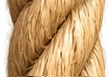
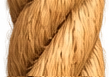
feat(nav): add realistic rope wraps on branch and restore unclipped monkey grip

diff --git a/src/components/layout/NavigationRopes.jsx b/src/components/layout/NavigationRopes.jsx
@@ -1,93 +1,22 @@
 import { useId } from 'react';
 
-function RopeCoil({ x, top, angle, thickness, id }) {
-  const width = thickness * 2.2;
-  const height = width * 55 / 40;
-  // Bottom of lowest ring is at y=47.5 in the 40x55 viewBox.
-  // Align bottom ring with the top bark surface.
-  const y = top - height * (47.5 / 55);
-  return (
-    <g transform={`rotate(${angle * 0.35} ${x} ${top})`} filter={`url(#${id}-contact)`}>
-      <svg
-        x={x - width / 2}
-        y={y}
-        width={width}
-        height={height}
-        viewBox="0 0 40 55"
-        overflow="visible"
-        aria-hidden="true"
-      >
-        {/* Top peg */}
-        <path
-          d="M 14 26 V 14 A 6 6 0 0 1 26 14 V 26 Z"
-          fill={`url(#${id}-coil-grad)`}
-          stroke="#38200f"
-          strokeWidth="2.2"
-          strokeLinejoin="round"
-        />
-        <ellipse cx="20" cy="14" rx="3.5" ry="3.5" fill="#edd2a4" opacity="0.6" />
-
-        {/* Ring 1 (top) */}
-        <rect
-          x="5"
-          y="17"
-          width="30"
-          height="11"
-          rx="5.5"
-          fill={`url(#${id}-coil-grad)`}
-          stroke="#38200f"
-          strokeWidth="2.2"
-        />
-        <rect x="8" y="18.5" width="24" height="3" rx="1.5" fill={`url(#${id}-coil-hl)`} />
-
-        {/* Ring 2 (middle) */}
-        <rect
-          x="4"
-          y="27"
-          width="32"
-          height="11"
-          rx="5.5"
-          fill={`url(#${id}-coil-grad)`}
-          stroke="#38200f"
-          strokeWidth="2.2"
-        />
-        <rect x="7" y="28.5" width="26" height="3" rx="1.5" fill={`url(#${id}-coil-hl)`} />
-
-        {/* Ring 3 (bottom) */}
-        <rect
-          x="5"
-          y="37"
-          width="30"
-          height="11"
-          rx="5.5"
-          fill={`url(#${id}-coil-grad)`}
-          stroke="#38200f"
-          strokeWidth="2.2"
-        />
-        <rect x="8" y="38.5" width="24" height="3" rx="1.5" fill={`url(#${id}-coil-hl)`} />
-      </svg>
-    </g>
-  );
-}
-
 export default function NavigationRopes({ ropes }) {
   const id = useId().replaceAll(':', '');
   return (
     <>
       <svg className="featured-ropes featured-ropes-back" aria-hidden="true">
         <defs>
-          <filter id={`${id}-contact`} x="-50%" y="-30%" width="200%" height="160%">
-            <feDropShadow dx=".6" dy="1.2" stdDeviation="1" floodColor="#321a08" floodOpacity=".32" />
+          <radialGradient id={`${id}-bark-contact`} cx="50%" cy="50%" r="50%">
+            <stop offset="0%" stopColor="rgba(30,15,0,0.38)" />
+            <stop offset="65%" stopColor="rgba(30,15,0,0.18)" />
+            <stop offset="100%" stopColor="rgba(30,15,0,0)" />
+          </radialGradient>
+          <filter id={`${id}-wrap-shadow`} x="-20%" y="-20%" width="140%" height="140%">
+            <feDropShadow dx="1.2" dy="2.2" stdDeviation="1.8" floodColor="rgba(30,15,0,0.35)" />
           </filter>
-          <linearGradient id={`${id}-coil-grad`} x1="0" y1="0" x2="0" y2="1">
-            <stop offset="0%" stopColor="#c49a65" />
-            <stop offset="35%" stopColor="#a27546" />
-            <stop offset="100%" stopColor="#704824" />
-          </linearGradient>
-          <linearGradient id={`${id}-coil-hl`} x1="0" y1="0" x2="0" y2="1">
-            <stop offset="0%" stopColor="#fffae8" stopOpacity="0.75" />
-            <stop offset="100%" stopColor="#fffae8" stopOpacity="0" />
-          </linearGradient>
+          <filter id={`${id}-rope-shadow`} x="-30%" y="-10%" width="160%" height="120%">
+            <feDropShadow dx="1" dy="2" stdDeviation="1.5" floodColor="rgba(30,15,0,0.28)" />
+          </filter>
           {ropes.map(({ x, thickness }, index) => (
             <pattern
               key={index}
@@ -117,7 +46,27 @@ export default function NavigationRopes({ ropes }) {
       </svg>
       <svg className="featured-ropes featured-ropes-front" aria-hidden="true">
         {ropes.map((rope, index) => {
-          const { x, top, under, angle, bottom, hole, knotY, thickness, ropeLength, board, boardIndex } = rope;
+          const {
+            x,
+            top,
+            under,
+            angle,
+            bottom,
+            hole,
+            knotY,
+            thickness,
+            ropeLength,
+            board,
+            boardIndex,
+            wrapTop,
+            wrapHeight,
+            wrapWidth,
+          } = rope;
+
+          const wWidth = wrapWidth || (under - top) * 1.10 * 1.15;
+          const wHeight = wrapHeight || (under - top) * 1.10;
+          const wTop = wrapTop !== undefined ? wrapTop : top - (under - top) * 0.05;
+
           return (
             <g
               key={index}
@@ -136,15 +85,43 @@ export default function NavigationRopes({ ropes }) {
               data-rope-length={ropeLength}
               data-wrap-angle={angle}
             >
-              {/* Straight vertical rope drop from underside of branch straight down to hole */}
-              <path
-                d={`M ${x} ${under} V ${hole}`}
-                fill="none"
-                stroke={`url(#${id}-fiber-${index})`}
-                strokeWidth={thickness}
+              {/* Soft contact shadows on bark above and below each wrap */}
+              <ellipse
+                cx={x}
+                cy={top}
+                rx={wWidth * 0.42}
+                ry={Math.max(2.5, wHeight * 0.08)}
+                fill={`url(#${id}-bark-contact)`}
               />
-              {/* Compact 3-ring coil sitting on top of the branch */}
-              <RopeCoil x={x} top={top} angle={angle} thickness={thickness} id={id} />
+              <ellipse
+                cx={x}
+                cy={under}
+                rx={wWidth * 0.42}
+                ry={Math.max(2.5, wHeight * 0.08)}
+                fill={`url(#${id}-bark-contact)`}
+              />
+
+              {/* Hanging rope tucked 10px under lowest coil turn, swings around wrap bottom center (x, under) */}
+              <g transform={angle ? `rotate(${angle} ${x} ${under})` : undefined}>
+                <path
+                  d={`M ${x} ${under - 10} V ${hole}`}
+                  fill="none"
+                  stroke={`url(#${id}-fiber-${index})`}
+                  strokeWidth={thickness}
+                  filter={`url(#${id}-rope-shadow)`}
+                />
+              </g>
+
+              {/* Realistic rope wrap fixed in place on the branch, in front of leaves and bark */}
+              <image
+                href="/rope/wrap.webp"
+                x={x - wWidth / 2}
+                y={wTop}
+                width={wWidth}
+                height={wHeight}
+                preserveAspectRatio="none"
+                filter={`url(#${id}-wrap-shadow)`}
+              />
             </g>
           );
         })}
@@ -167,3 +144,4 @@ export default function NavigationRopes({ ropes }) {
     </>
   );
 }
+

diff --git a/src/components/layout/BranchNav.css b/src/components/layout/BranchNav.css
@@ -96,7 +96,8 @@
   z-index: 2;
 }
 .featured-ropes-back { z-index: 0; }
-.featured-ropes-fixings { z-index: 4; }
+.featured-ropes-front { z-index: 3; }
+.featured-ropes-fixings { z-index: 6; }
 
 /* The groups share one top and one gap; bark curvature only changes rope length. */
 .featured-signs {
@@ -342,6 +343,7 @@
   transform: translateX(-50%);
   pointer-events: none;
   filter: var(--board-shadow);
+  overflow: visible;
 }
 .featured-logo {
   position: relative;
@@ -362,6 +364,7 @@
   background-position: center;
   pointer-events: auto;
   -webkit-tap-highlight-color: transparent;
+  overflow: visible;
 }
 .featured-logo svg {
   display: none;
@@ -381,11 +384,13 @@
   cursor: pointer;
   pointer-events: auto;
   -webkit-tap-highlight-color: transparent;
+  overflow: visible;
 }
 .featured-monkey picture {
   display: block;
   width: 100%;
   height: 100%;
+  overflow: visible;
 }
 .featured-monkey img {
   position: relative;
@@ -395,6 +400,7 @@
   height: 100%;
   object-fit: contain;
   pointer-events: none;
+  overflow: visible;
 }
 
 .featured-squirrel {

diff --git a/src/components/layout/BranchNav.jsx b/src/components/layout/BranchNav.jsx
@@ -74,9 +74,13 @@ export default function BranchNav() {
         const pair = (isLogo ? [.18, .82] : [.22, .78]).map(anchor => {
           const x = r.x + r.width * anchor;
           const surface = ropeSurface(x, art);
-          const wrapTop = surface.top - 2 * scale;
-          const wrapHeight = (surface.under - wrapTop) * 1024 / 800;
-          return { x, ...surface, wrapTop, wrapHeight, wrapWidth: wrapHeight * 290 / 480 };
+          const branchThickness = surface.under - surface.top;
+          const wrapHeight = branchThickness * (isLogo ? 1.10 * 1.45 : 1.10);
+          const wrapTop = isLogo
+            ? (surface.top + surface.under) / 2 - wrapHeight / 2
+            : surface.top - branchThickness * 0.05;
+          const wrapWidth = wrapHeight * (isLogo ? 1.25 : 1.15);
+          return { x, ...surface, wrapTop, wrapHeight, wrapWidth, isLogo };
         });
         // Menu holes are baked into the original 594 × 450 plank at y=57.
         const hole = r.y + r.height * (isLogo ? .13 : 57 / 450);
